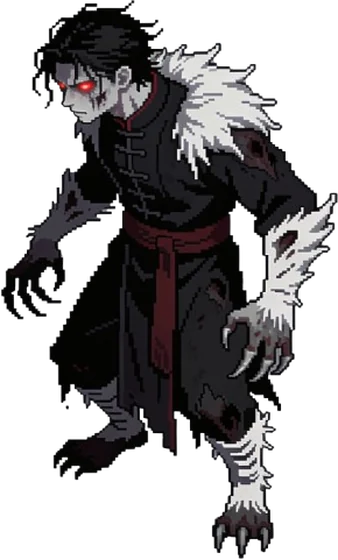
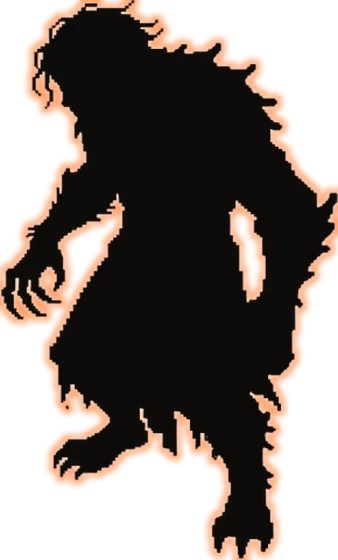
殭屍血統區塊改成剪影

diff --git a/public/index.html b/public/index.html
@@ -267,11 +267,16 @@ html[lang="en"] .card h3{font-family:var(--display);font-size:clamp(16px,1.9vw,2
 html[lang="en"] .bl-stage{font-family:var(--display);font-size:11px;letter-spacing:.28em;text-transform:uppercase}
 .bl h3{font-weight:500;font-size:clamp(21px,2.7vw,29px);letter-spacing:.2em;margin-bottom:8px}
 /* 名稱顏色跟著階段一起升溫：冷白 → 暖白 → 火色，呼應腳下光暈的遞增 */
+/* 未公開的階段：??? 拉開字距、稍微壓暗，讀起來像「被藏起來」而不是像一個名字。
+   顏色仍沿用各階原本的（第三階還是餘燼色＋發光），才看得出階級遞進。 */
+.bl-unknown{letter-spacing:.28em;opacity:.72}
 .bl-1 h3{color:rgba(226,222,216,.88)}
 .bl-2 h3{color:rgba(252,243,228,.97);text-shadow:0 0 22px rgba(255,150,80,.20)}
 .bl-3 h3{color:var(--ember-hi);text-shadow:0 0 30px rgba(255,143,77,.5)}
+/* min-height：未公開的階段這一格是空的（拼音會洩漏名字），
+   但空格子還是要佔位，否則三欄的說明文字會對不齊。 */
 .bl-rom{font-family:var(--display);font-size:11px;letter-spacing:.28em;
-  color:rgba(240,229,217,.34);text-transform:uppercase;margin-bottom:18px}
+  color:rgba(240,229,217,.34);text-transform:uppercase;margin-bottom:18px;min-height:1.9em}
 /* 英文版這一格放的是漢字，改用襯線體並收窄字距 */
 html[lang="en"] .bl-rom{font-family:var(--serif);font-size:13px;letter-spacing:.2em;text-transform:none}
 /* 用 em 控寬度，中文一行約 19 個字才不會斷成孤字 */
@@ -503,8 +508,11 @@ footer .fmark{width:22px;margin:0 auto 24px;opacity:.24}
       <div class="bl bl-2 rv">
         <div class="bl-fig"><img src="assets/bl_zombie2.webp" alt="" loading="lazy"></div>
         <div class="bl-stage" data-zh="中階" data-en="Second Form"></div>
-        <h3 data-zh="毛殭" data-en="Maojiang"></h3>
-        <div class="bl-rom" data-zh="Maojiang" data-en="毛殭"></div>
+        <!-- 二、三階刻意不公開：名稱一律 ??? ，拼音那格留空（寫什麼都會洩漏）。
+             之後要公開的話，把名字填回來，並到 build_assets.py 的 BLOOD_MAP
+             把這一階的 hidden 改成 False，重跑 npm run assets 即可。 -->
+        <h3 class="bl-unknown" data-zh="???" data-en="???"></h3>
+        <div class="bl-rom" data-zh="" data-en=""></div>
         <p data-zh="白毛覆體，爪牙成形。多一分力氣，就少一分神智。"
            data-en="White fur, claws, fangs. Every measure of strength costs a measure of mind."></p>
       </div>
@@ -514,8 +522,8 @@ footer .fmark{width:22px;margin:0 auto 24px;opacity:.24}
       <div class="bl bl-3 rv">
         <div class="bl-fig"><img src="assets/bl_zombie3.webp" alt="" loading="lazy"></div>
         <div class="bl-stage" data-zh="最終" data-en="Final Form"></div>
-        <h3 data-zh="旱魃" data-en="Hanba"></h3>
-        <div class="bl-rom" data-zh="Hanba · Drought God" data-en="旱魃"></div>
+        <h3 class="bl-unknown" data-zh="???" data-en="???"></h3>
+        <div class="bl-rom" data-zh="" data-en=""></div>
         <p data-zh="旱災之神。祂走過的地方，千里之內不落一滴雨。"
            data-en="The drought god. Where it walks, no rain falls for a thousand li."></p>
       </div>

diff --git a/tools/build_assets.py b/tools/build_assets.py
@@ -111,10 +111,49 @@ def convert(src, dst_name, width, quality, keep_alpha=False, trim=True, crop_bot
 BLOOD_DIR = os.path.join(ROOT, "遊戲內資源", "血統")
 BLOOD_HEIGHT = 560
 BLOOD_QUALITY = 86
+# 第三個欄位 hidden=True 代表「這一階還不公開」，會輸出成剪影而不是原圖。
+# 網站上對應的名稱要一起改成 ???（見 index.html 的 .bl-unknown）。
+# 之後要公開就把 True 改成 False，重跑 npm run assets——輸出檔名不變，
+# 所以 index.html 的 <img src> 不用動。
 BLOOD_MAP = {
-    # 資料夾名稱: [(來源檔名（不含副檔名）, 輸出名), ...]
-    "殭屍": [("1.殭屍", "bl_zombie1"), ("2.毛殭", "bl_zombie2"), ("3.旱魃", "bl_zombie3")],
+    # 資料夾名稱: [(來源檔名（不含副檔名）, 輸出名, 是否隱藏), ...]
+    "殭屍": [
+        ("1.殭屍", "bl_zombie1", False),
+        ("2.毛殭", "bl_zombie2", True),
+        ("3.旱魃", "bl_zombie3", True),
+    ],
 }
+
+SIL_FILL = (14, 11, 9)        # 剪影本體的顏色。不是純黑——純黑在深色底上會整團消失
+SIL_RIM = (255, 132, 60)      # 邊緣餘燼光的顏色
+SIL_GROW = 9                  # 邊緣光往外擴幾像素
+SIL_BLUR = 3
+
+
+def to_silhouette(im):
+    """把角色立繪壓成剪影：整片填暗色，外圍描一圈餘燼光。
+
+    只用 alpha 通道當遮罩，所以原圖的任何細節（毛色、發光紋路）都不會殘留。
+    ——試過「保留一點內部明暗」的版本，結果二階的白毛和三階的紋路還是看得出來，
+       等於沒藏，所以這裡走完全填色。
+    """
+    from PIL import ImageFilter, ImageChops
+    a = im.split()[3]
+
+    body = Image.new("RGBA", im.size, SIL_FILL + (0,))
+    body.putalpha(a)
+
+    # alpha 外擴後減掉原本的 alpha = 一圈輪廓，再模糊成光暈
+    edge = ImageChops.subtract(a.filter(ImageFilter.MaxFilter(SIL_GROW)), a)
+    edge = edge.filter(ImageFilter.GaussianBlur(SIL_BLUR))
+    edge = edge.point(lambda v: min(255, int(v * 0.88)))
+    glow = Image.new("RGBA", im.size, SIL_RIM + (0,))
+    glow.putalpha(edge)
+
+    out = Image.new("RGBA", im.size, (0, 0, 0, 0))
+    out.alpha_composite(glow)     # 光在下
+    out.alpha_composite(body)     # 身體在上
+    return out
 
 
 def build_bloodlines():
@@ -126,7 +165,7 @@ def build_bloodlines():
         if not os.path.isdir(src_dir):
             print(f"  （找不到 {folder}/，略過）")
             continue
-        for src_name, out_name in items:
+        for src_name, out_name, hidden in items:
             src = os.path.join(src_dir, src_name + ".png")
             if not os.path.isfile(src):
                 print(f"  （找不到 {folder}/{src_name}.png，略過）")
@@ -135,9 +174,13 @@ def build_bloodlines():
             im = im.crop(im.getbbox())          # 去掉四周多餘的透明區
             w = round(im.width * BLOOD_HEIGHT / im.height)
             im = im.resize((w, BLOOD_HEIGHT), Image.LANCZOS)
+            if hidden:
+                im = to_silhouette(im)
             dst = os.path.join(OUT_DIR, out_name + ".webp")
             im.save(dst, "WEBP", quality=BLOOD_QUALITY, method=6)
-            print(f"  {out_name}.webp  {im.width}x{BLOOD_HEIGHT}  {os.path.getsize(dst)//1024}KB")
+            tag = "  ← 剪影（未公開）" if hidden else ""
+            print(f"  {out_name}.webp  {im.width}x{BLOOD_HEIGHT}  "
+                  f"{os.path.getsize(dst)//1024}KB{tag}")
 
 
 # ---------- 標題 logo ----------
